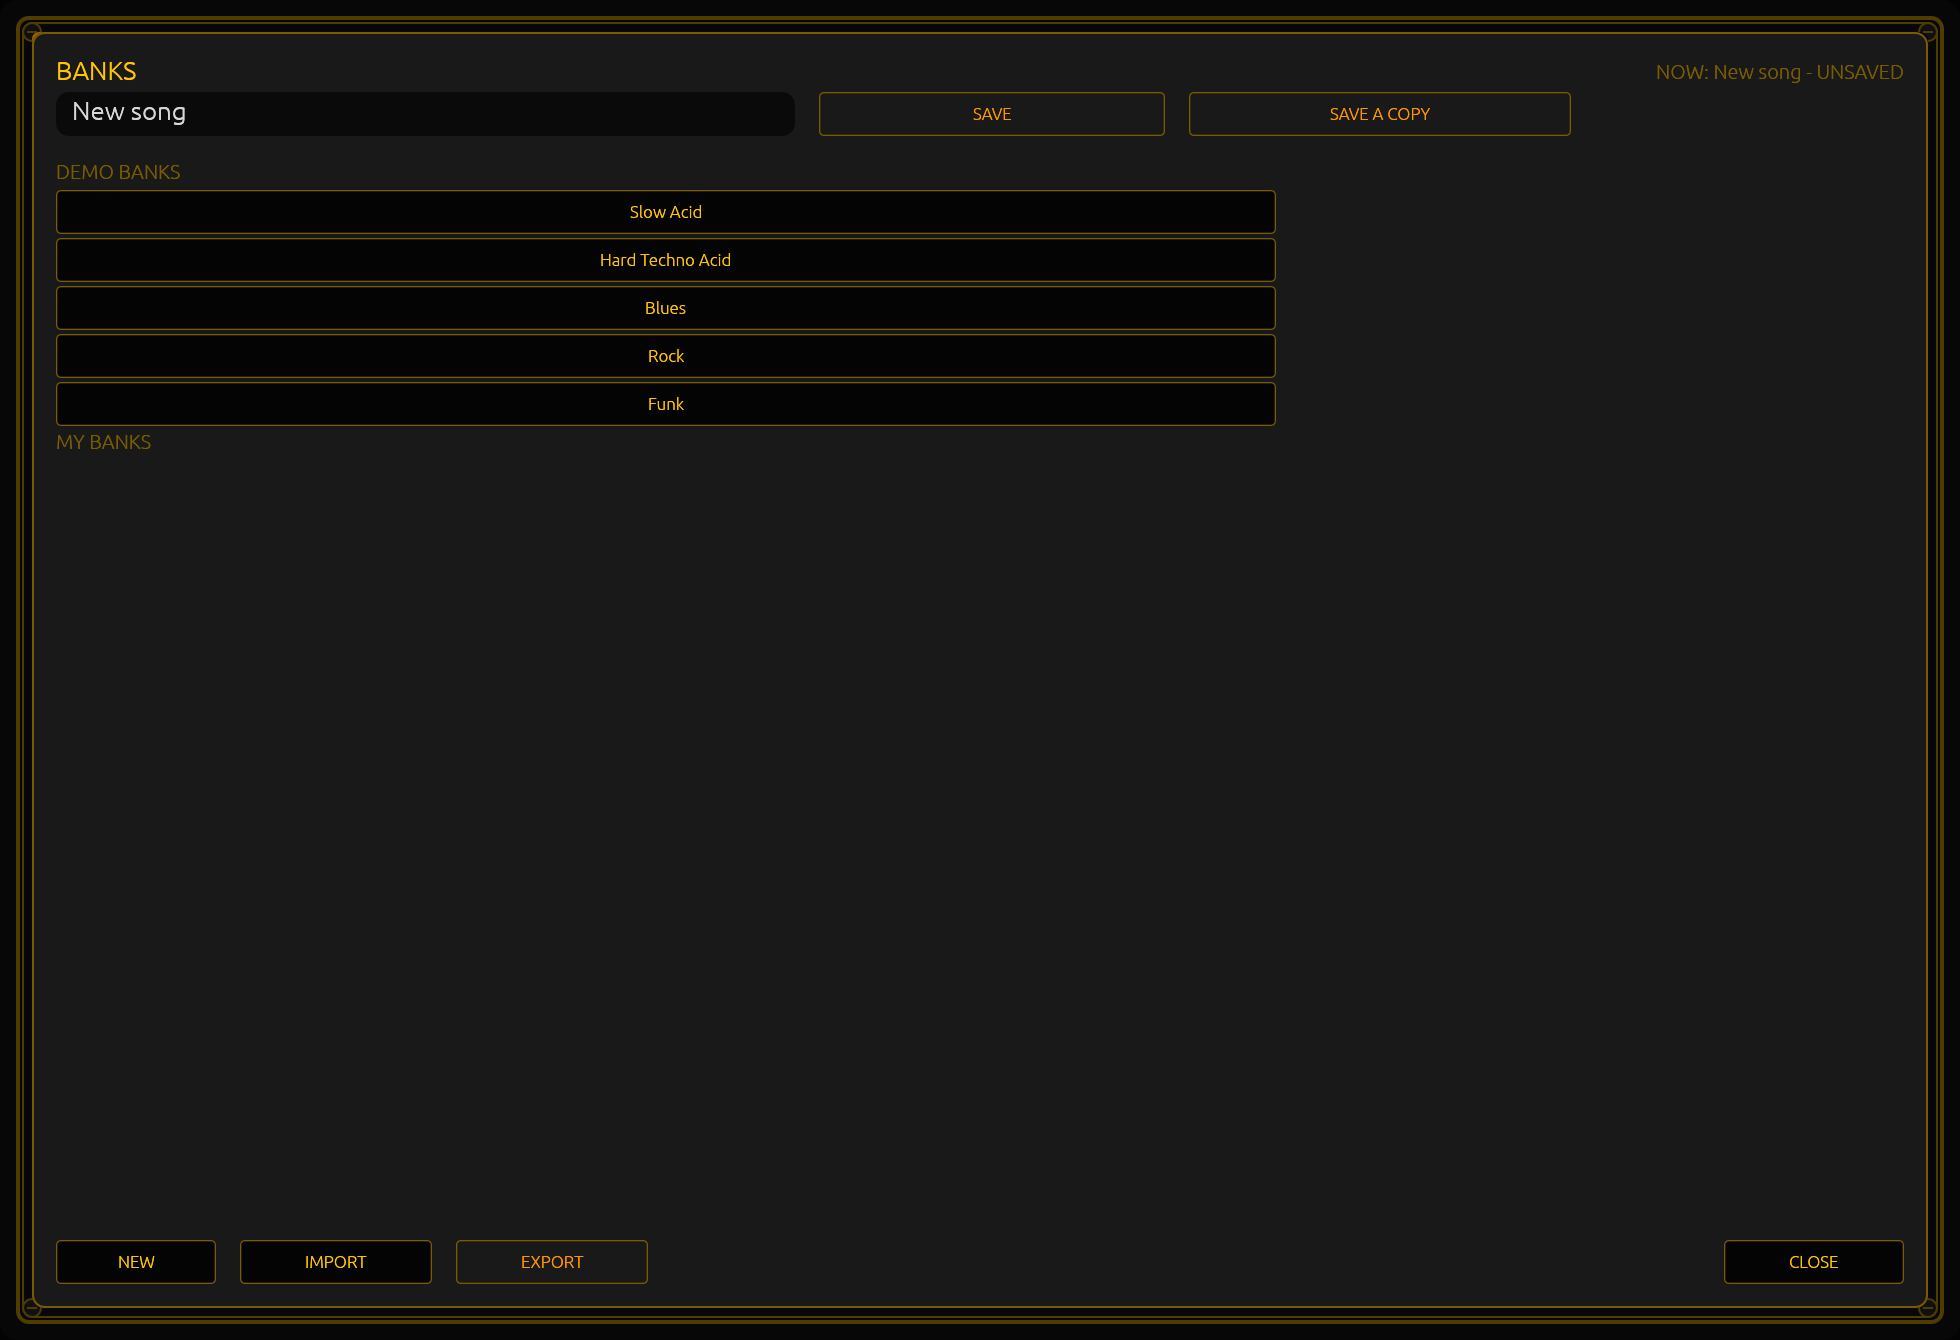
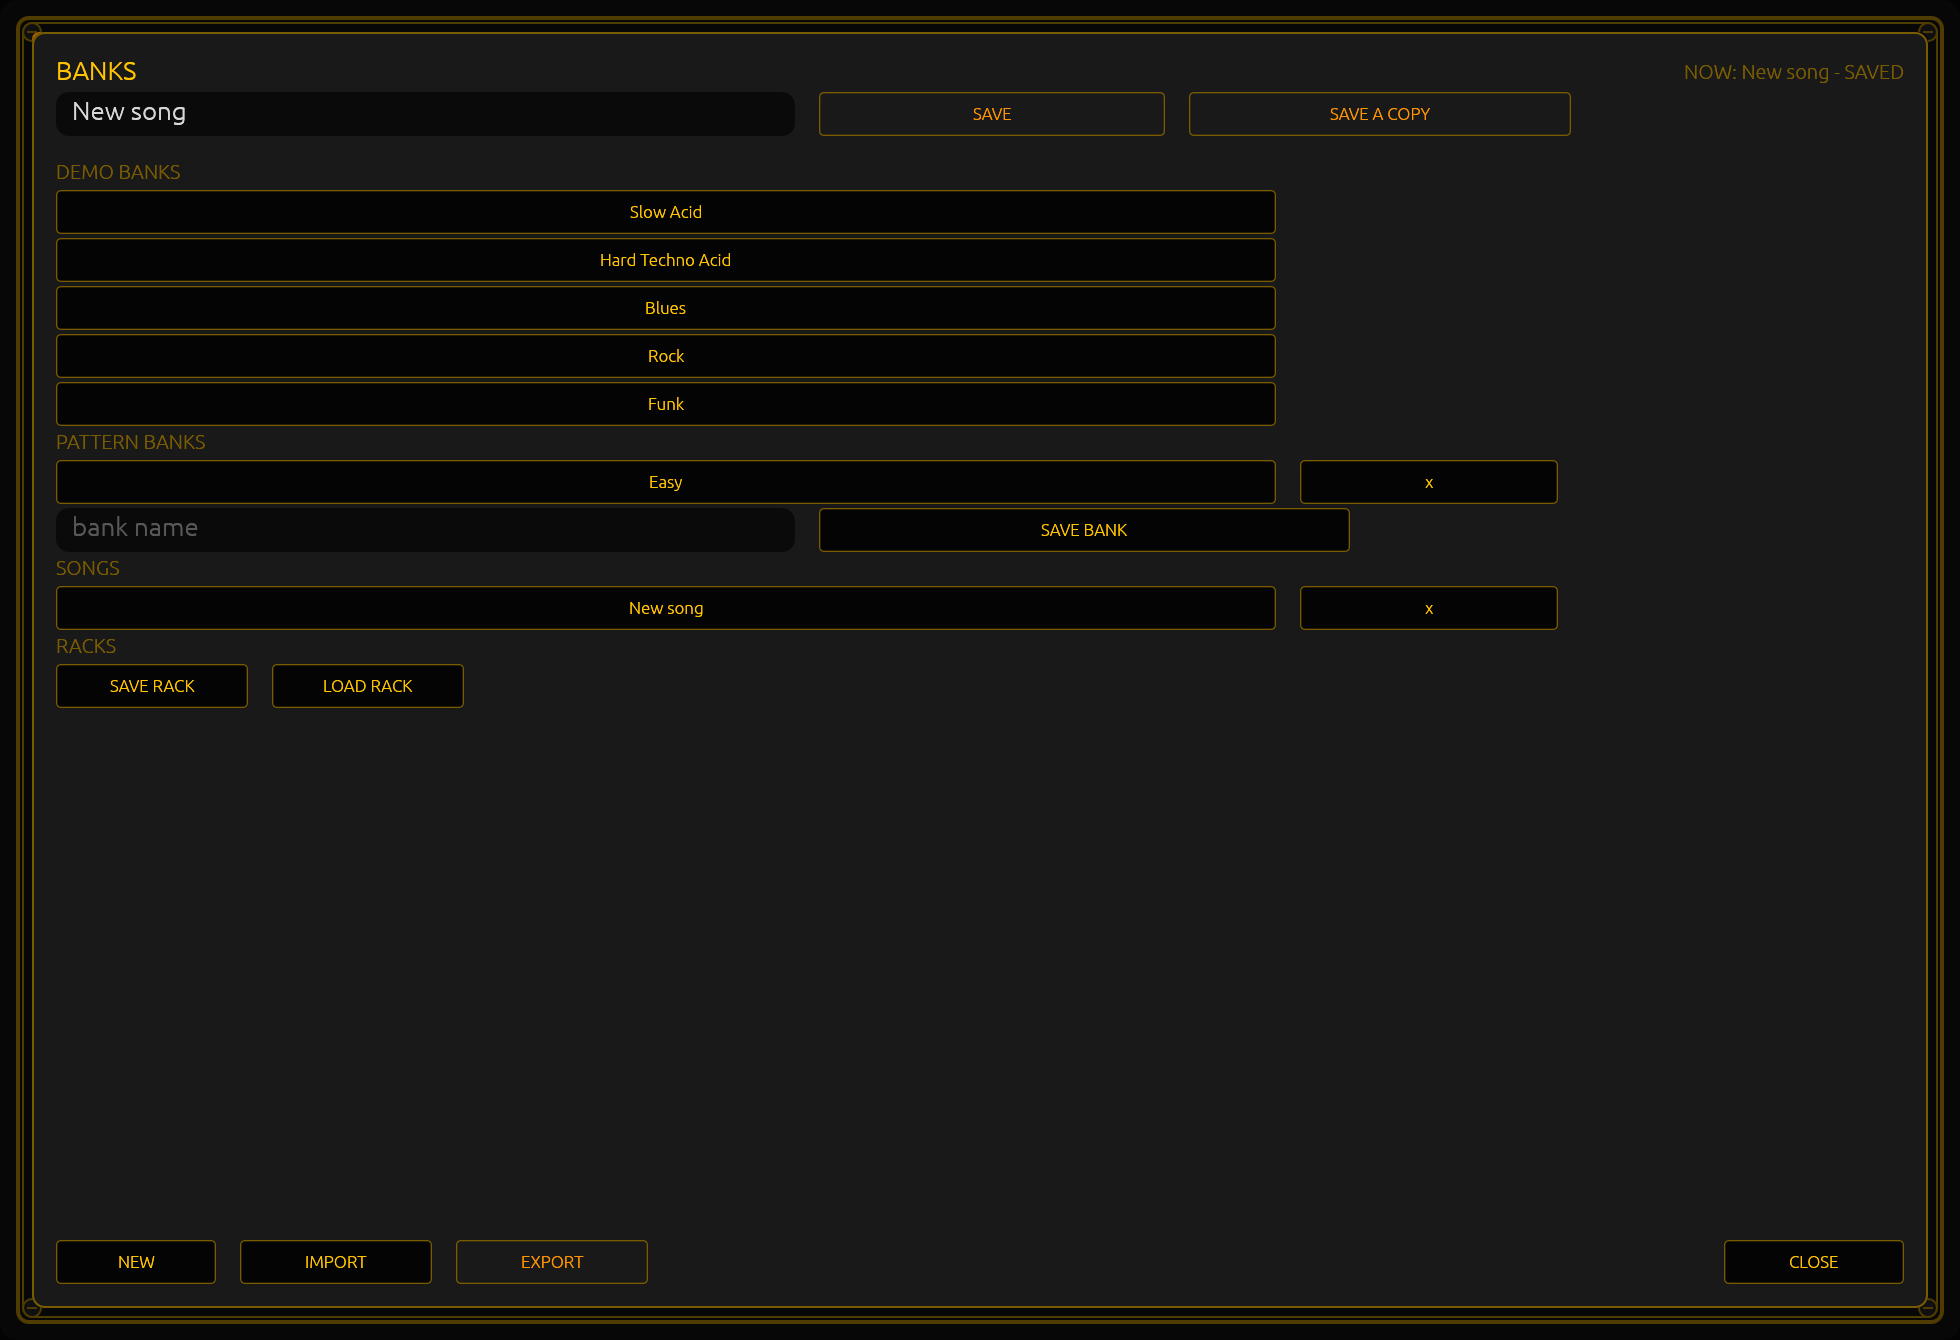
docs: three documents, true words, and the card's new picture
Page 12 now says what the card says: a song is the whole rack, a
pattern bank is sixty-four patterns and the machine they came from, and
a rack is a document this build only has keys for. MY BANKS became
SONGS, PATTERN BANKS gained its own paragraph — the row replaces all
sixty-four patterns of the selected device, the arm while the session
is unsaved, the kind mismatch that loads and plays nothing, SAVE BANK's
in-place rule — and RACKS says its two keys refuse.

Page 20's bank-browser line names the four sections, the files table
gains banks/<name>.json, and the names paragraph covers both
libraries. check.sh pins PATTERN BANKS, SAVE BANK, SAVE RACK, LOAD RACK
and the file path, and keeps MY BANKS out.

The picture is retaken from a session of its own, and finding it found
a bug: ui::mod's open_banks read the songs library only, so a bank
saved last session was invisible. It reads both now, and opens the bank
field on the bank file the selected device is on.

Gates: 937 tests, clippy, fmt, check.sh.

diff --git a/rust/crates/acid-app/src/ui/mod.rs b/rust/crates/acid-app/src/ui/mod.rs
@@ -1265,12 +1265,16 @@ fn open_banks(state: &mut PanelState) {
     state.put_cards_away();
     state.songs.card = Some(banks::Banks {
         names: crate::persist::list_songs(&crate::persist::data_dir()),
+        // Both libraries, read the frame the card opens: a bank saved before this session started is a row without a refresh.
+        bank_names: crate::persist::list_banks(&crate::persist::data_dir()),
         // The demos are built into the binary, so the card only needs their names to list them.
         demos: crate::demo::songs()
             .iter()
             .map(|demo| demo.name.to_string())
             .collect(),
         name: state.songs.name.clone().unwrap_or_default(),
+        // The bank field opens on the file the selected device's bank is in, so `SAVE BANK` writes in place without retyping.
+        bank_name: state.songs.bank_file.clone().unwrap_or_default(),
         open: state.songs.file.clone(),
         ..banks::Banks::default()
     });

diff --git a/docs/guide/src/img/README.md b/docs/guide/src/img/README.md
@@ -61,6 +61,18 @@ the build: the pictures are committed PNGs, and this note is what makes them rep
   `import -window <id> -crop 1896x574+32+466`, the grid's own rect (`grid_area` at 2×) with no pixel of the dial row above it —
   the first attempt at `+456` caught the bottom edges of `LP | BP | HP` and `HIT`, and was thrown away rather than trimmed. The
   face's other picture, `drum-face.png`, is a first run with an empty grid and is still stopped, so it still shows no playhead.
+- **`banks-card.png` is the bank-files round's own picture**, retaken on 2026-11-22 on a fresh `Xvfb :93 -screen 0 2000x1400x24`
+  — `DISPLAY=:93 xdotool getdisplaygeometry` said `2000 1400` before the app was launched and `getwindowgeometry` then said
+  `1960x1340` — with `TAKKA_ACID_DATA_DIR=/tmp/takka-guide-banks`, emptied first. The card's other rows are driven by clicks, but
+  its **text fields cannot be typed into under Xvfb**: `xdotool type` and `xdotool key --window <id>` both printed
+  `XGetInputFocus returned the focused window of 1` and delivered nothing, though the click that focused the field did take (the
+  cursor and the brighter border are visible in the grab that proved it). So the picture's two rows come from the two ways a row
+  can appear: `SAVE` was pressed with the field as it arrived — `New song`, which is why `SONGS` has a row and the header reads
+  `SAVED` — and `Easy` was written into `banks/` by a throwaway test before the relaunch, because a first run has no bank and the
+  card reads `banks/` the frame it opens. `BANKS` opened the card at `switches::cell(layout(980 × 670).switches, Switch::Banks)`
+  doubled, 1525,1122, and the pointer was parked at 1990,1390 on the 2000 × 1400 screen before the grab, so no tip and no notice
+  is in it. The `bank name` field shows its hint rather than `Easy` because nothing was loaded: no bank is the selected device's
+  until one is.
 
 ## The images
 
@@ -70,7 +82,7 @@ the build: the pictures are committed PNGs, and this note is what makes them rep
 | `img/running.png` | the transport running: `PLAY` lit in the tape deck, `PAUSE` dark | `space` from the first-sound state |
 | `img/help-card.png` | the help card over the panel: the arrows as two pairs (`shift+left` / `right` the pattern, `shift+up` / `down` the tempo, then the plain `left` / `right` and `up` / `down` for the face), the drum face's keys folded into those lines, and its two own lines — `h` and `l` / `b` / `p` | `F1` on the arrows round's session (below), pointer parked outside the window |
 | `img/settings-card.png` | the settings card, `MIDI IN` naming the port in use | `F2` |
-| `img/banks-card.png` | the bank browser: `New song`, the five demo banks, an empty `MY BANKS` | click `BANKS` |
+| `img/banks-card.png` | the bank browser, retaken this round: `NOW: New song - SAVED`, the five demo banks, `PATTERN BANKS` with one saved bank (`Easy`) and its `x`, the `bank name` field with `SAVE BANK`, `SONGS` with one saved song and its `x`, and `RACKS`' `SAVE RACK` / `LOAD RACK` | click `BANKS`; the bank row is a file seeded before the launch, because a first run has none |
 | `img/device-card.png` | the device card for `ACID 1`: `COLOUR BLACK`, one port, `MUTE OFF` | `F3` |
 | `img/picker.png` | the picker: `ADD DEVICE` with the `ACID` and `DRUMS` rows and `CLOSE`, and nothing under them — retaken in the whole-rack round, when the line that said names and extra devices were not saved went away | click `+` at the strip's right end; park the pointer outside the window before grabbing |
 | `img/theme-list.png` | the card for `ACID 1` with the theme list open over it, the dot on `BLACK`, eleven of the twenty-two rows and the scroll thumb | `F3`; click `COLOUR`; park the pointer away from the knobs before grabbing, or their tooltip lands in the picture |

diff --git a/docs/guide/src/12-songs-and-demos.md b/docs/guide/src/12-songs-and-demos.md
@@ -1,10 +1,10 @@
 # Songs and demos
 
-`BANKS` opens the browser that keeps your work: a name field with `SAVE` and `SAVE A COPY` beside it, two lists, and four
-keys along the bottom.
+`BANKS` opens the browser that keeps your work: a name field with `SAVE` and `SAVE A COPY` beside it, four lists, and four
+keys along the bottom. It keeps three different amounts of work: a **song** is the whole rack, a **pattern bank** is sixty-four
+patterns and the machine they were written on, and a **rack** is a document of its own that this build only has keys for.
 
-## The two lists
-
+## The four lists
 **`DEMO BANKS`** are the five that ship inside the app: **Slow Acid**, **Hard Techno Acid**, **Blues**, **Rock** and
 **Funk**. They are read-only — there is no way to overwrite one — and each is a patch plus eight patterns in `A1` to `A8`
 ([`11-the-bank`](11-the-bank.md)). Clicking one loads it as a **new** song: named `New song`, not yet on disk — its name
@@ -18,11 +18,26 @@ A save keeps every machine in the rack ([`18-a-rack-of-devices`](18-a-rack-of-de
 kept whichever cell it sits in. [`22-the-drum-machine`](22-the-drum-machine.md) is the drum machine's own page, its grid and
 its kits.
 
-**`MY BANKS`** are the saves you have named. Click a row to load one. If what is on screen has unsaved changes, the first
+**`PATTERN BANKS`** are the banks you have saved: sixty-four patterns each, `A1` to `H8`, and the machine the bank was written
+on. A row loads that bank into the **selected device**, replacing all sixty-four of its patterns — what a demo row has always done
+to a drum machine's grid, now with a file of your own. If what is on screen has unsaved changes, the first click only arms the row
+— it prints `<name> - click again to replace the bank` — and the second loads it. A bank written on the other machine loads and
+plays nothing; the status line says so and names the machine the file names.
+
+`SAVE BANK`, under those rows, keeps the selected device's bank under a name, and its field behaves as the song's does: the
+bank's own name rewrites that file, a different name writes a new one — beside a taken one, `Easy (2)`, so a bank never destroys
+another by being given its name — and a blank field saves the bank the device came from. A bank's door is on its own heading
+rather than in the footer, and there is no `IMPORT` or `EXPORT` for one: `banks/` is the folder, and a file dropped into it loads.
+
+**`SONGS`** are the saves you have named. Click a row to load one. If what is on screen has unsaved changes, the first
 click only arms the row — it prints `<name> - click again to replace` — and the second click loads it.
 
-Every row has a small `x` at its right end. One click turns it into `SURE`; the second deletes the song. The demos have no
-`x`.
+Every row of `PATTERN BANKS` and `SONGS` has a small `x` at its right end. One click turns it into `SURE`; the second deletes
+that file. The demos have no `x`.
+
+**`RACKS`** holds `SAVE RACK` and `LOAD RACK`, and it is the one place on the card that does nothing yet: a rack of its own —
+the machines, their patches and their banks as one document — is a later round. On this build both keys say so on the status
+line and open nothing.
 
 ## One song, the whole rack
 
@@ -50,7 +65,7 @@ name stays amber until you do it — and what a save writes depends entirely on 
 branch: load a demo, hit `SAVE A COPY`, and rename the copy.
 
 Names are trimmed, may be up to 48 characters, and may not contain `/`, `\`, `:`, `*`, `?`, `"`, `<`, `>`, `|`, or start
-with a dot — they become file names in `songs/`.
+with a dot — they become file names in `songs/` or `banks/`.
 
 ## The buttons
 

diff --git a/plans/phase 5/02-bank-files.md b/plans/phase 5/02-bank-files.md
@@ -288,3 +288,22 @@ loading a bank into a device other than the selected one; the `DEMO BANKS` behav
       was added for it, and is flagged in its own doc comment as written after the gap was found.
       Gates: `cargo test --workspace` **937**, clippy `-D warnings`, `cargo fmt --check`, `./docs/guide/check.sh` ok.
 - [ ] **Task 4 — the book, the pins and the pictures.**
+- [x] **Task 4 — the book, the pins and the pictures.** Page 12 is rewritten for the three documents: the intro says a song is the
+      whole rack, a bank is sixty-four patterns and the machine they came from, and a rack is a document this build only has keys
+      for; `## The two lists` became `## The four lists`, `MY BANKS` became `SONGS`, and `PATTERN BANKS` and `RACKS` got their own
+      paragraphs — what a bank row replaces (all sixty-four patterns of the selected device, the thing a demo row has always done),
+      the two-click arm, the `kind` mismatch that loads and plays nothing, `SAVE BANK`'s in-place/new-file rule and its blank field,
+      and that the `RACKS` keys say so and open nothing. Page 20's bank-browser line names all four sections, the files table gains
+      `banks/<name>.json`, and the names paragraph says "Song and bank names". `check.sh` pins `PATTERN BANKS`, `SAVE BANK`,
+      `SAVE RACK`, `LOAD RACK` and `banks/<name>.json`, and `gone 'MY BANKS'` keeps the old heading out. **`img/banks-card.png` was
+      retaken** (display checked at 2000 × 1400, window `1960x1340`, fresh data dir, pointer parked at 1990,1390) and its row
+      rewritten; `img/README.md` records the run, including the fact that the card's text fields **cannot be typed into under
+      Xvfb** (`xdotool type` and `xdotool key --window` both print `XGetInputFocus returned the focused window of 1` and deliver
+      nothing), so the picture's `SONGS` row comes from `SAVE` with the field as it arrived and its `PATTERN BANKS` row from a bank
+      file written into `banks/` by a throwaway test before the relaunch.
+      **A bug the picture found, and its width:** `ui::mod`'s `open_banks` builds the card and read only `list_songs` — so a bank
+      saved in a previous session was invisible until something wrote the list. It now reads `list_banks` too, and opens the bank
+      field on `bank_file`, so `SAVE BANK` writes in place without retyping. **This one-line wiring is untested**, as `main`'s calls
+      are: the fill reads `persist::data_dir()` and sandboxing that in a parallel test suite is not worth its cost; the picture is
+      its evidence, and the row it shows is a bank file, not a hard-coded name.
+      Gates: `cargo test --workspace` **937**, clippy `-D warnings`, `cargo fmt --check`, `./docs/guide/check.sh` ok.

diff --git a/docs/guide/src/20-reference.md b/docs/guide/src/20-reference.md
@@ -143,8 +143,8 @@ notes this round.
 **The kit browser:** `KITS`, `FACTORY`, `MY KITS`, `IMPORT`, `CLOSE`, each of the three kits that ship marked `- READ ONLY`,
 and the row being asked about on `<name> - click again to replace`.
 
-**The bank browser:** `BANKS`, `DEMO BANKS`, `MY BANKS`, `SAVE`, `SAVE A COPY`, `NEW`, `IMPORT`, `EXPORT`, `CLOSE`, and the
-`x` / `SURE` on each of your own rows.
+**The bank browser:** `BANKS`, `DEMO BANKS`, `PATTERN BANKS`, `SONGS`, `RACKS`, `SAVE`, `SAVE A COPY`, `SAVE BANK`, `SAVE RACK`,
+`LOAD RACK`, `NEW`, `IMPORT`, `EXPORT`, `CLOSE`, and the `x` / `SURE` on each of your own rows, of a song and of a bank.
 
 **The help card** has four sections — `STEPS`, `KEYBOARD`, `MIDI`, `NOTES`.
 
@@ -157,9 +157,10 @@ and the row being asked about on `<name> - click again to replace`.
 | `~/.local/share/takka-acid` | or this, when `XDG_DATA_HOME` is unset too |
 | `state.json` | the session: **every device** — its kind, name, colour, ports, channel, patterns, patch, kit, swing and learned controllers — plus the rack's tempo, the panel's switches and the MIDI choice. Device 1 is also written in the old flat fields, so an older build still opens it |
 | `songs/<name>.json` | one file per named song; the name is the file name |
+| `banks/<name>.json` | one file per saved pattern bank: its sixty-four patterns and the machine it was written from. That kind is a warning, not a check — a bank from another machine loads and plays nothing, and the status line says so |
 | `kits/<name>/` | a kit: its `kit.json` and one `<VOICE>.wav` per sampled voice. The three that ship are compiled into the app and have no folder here; a kit is written when a session that plays an edited one is saved |
 
-Song names are trimmed, limited to 48 characters, and may not contain `/ \ : * ? " < > |` or start with a dot.
+Song and bank names are trimmed, limited to 48 characters, and may not contain `/ \ : * ? " < > |` or start with a dot.
 
 ## The one flag
 

diff --git a/plans/phase 5/00-phase-5.md b/plans/phase 5/00-phase-5.md
@@ -16,9 +16,10 @@ Rounds live here as `NN-topic.md`, one per round, in the shape the earlier phase
 review of the branch at the pull request (`AGENTS.md`). Commits are made with the gates green and the Progress lines current;
 the review is of the branch, not of each commit.
 
-**State: opened 2026-11-22; no task committed yet.** `cargo test --workspace` **905**, clippy `-D warnings`, `fmt --check` and
-`./docs/guide/check.sh` were green at `1ad1918` (the merge of phase 4). `SAVE_VERSION` is **11**; round `01` takes **12**, and
-round `02` shares that number because a bank is a second kind of saved document, not a second save version.
+**State: opened 2026-11-22; both rounds committed on `phase-5`, nothing pushed.** `cargo test --workspace` **937**, clippy
+`-D warnings`, `fmt --check` and `./docs/guide/check.sh` were green at the head of round `02`. Round `01` took `SAVE_VERSION`
+**12** and round `02` shares that number because a bank is a second kind of saved document, not a second save version. What is
+left for the player: the pull-request review of both rounds together, and the push.
 
 **What phase 5 does not do**, and where each is recorded: an **arrangement** (what plays when) is a later round with its own
 `SAVE_VERSION` bump — `plans/future/wishlist.md`, *The arrangement*; a **rack document** that loads is later — *Load and save a
